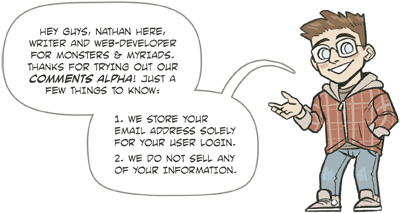
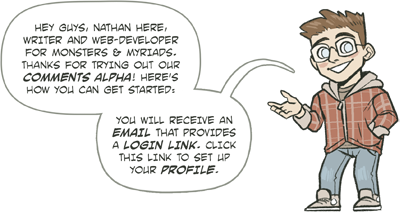
Fixed mobile author notes, added pages and signin

diff --git a/src/components/PageDetailCards/MobilePageDetailsCard.jsx b/src/components/PageDetailCards/MobilePageDetailsCard.jsx
@@ -1,39 +1,42 @@
-import Title from '../generic/Title';
-import BodyText from '../generic/BodyText';
-import JointSignature from '../generic/JointSignature';
+import Title from "../generic/Title";
+import BodyText from "../generic/BodyText";
+import JointSignature from "../generic/JointSignature";
 
 export default function MobilePageDetailsCard(props) {
-    
-    function convertDateForIos(date) {
-        var arr = date.split(/[- :]/);
-        date = new Date(arr[0], arr[1]-1, arr[2], arr[3], arr[4], arr[5]);
-        return date;
-    }
+  function convertDateForIos(date) {
+    var arr = date.split(/[- :]/);
+    date = new Date(arr[0], arr[1] - 1, arr[2], arr[3], arr[4], arr[5]);
+    return date;
+  }
 
-    let d = convertDateForIos(props.date);
+  let d = convertDateForIos(props.date);
 
-    return (
-        <div className="w-full border-t border-b border-mocha-dark py-6 px-6">
-            <div className="title w-full inline-block">
-                <div className="text-left">
-                    <Title text={props.title} />
-                </div>
-            </div>
-            <div className="message text-base w-full inline-block my-5">
-                <div className="text-left">
-                    <BodyText text={props.page.message}/>
-                </div>
-            </div>
-            <div className="signatureAndTime inline-block w-full">
-                <div className="sig float-left">
-                    <JointSignature userId={props.page.user}/>
-                </div>
-                <div className="date float-right leading-8">
-                    <div className="font-body font-regular text-base text-gray-light leading-8"> 
-                        {String(d.getMonth()+1)+"."+String(d.getDate())+"."+String(d.getFullYear())}
-                    </div>
-                </div>
-            </div>
+  return (
+    <div className="w-full border-t border-b border-mocha-dark bg-white">
+      <div className="title w-full inline-block bg-eggshell py-6 px-6">
+        <div className="text-left">
+          <Title text={props.title} />
         </div>
-    )
+      </div>
+      <div className="message text-base w-full inline-block my-5 px-6">
+        <div className="text-left">
+          <BodyText text={props.page.message} />
+        </div>
+      </div>
+      <div className="signatureAndTime inline-block w-full px-6 pb-6">
+        <div className="sig float-left">
+          <JointSignature userId={props.page.user} />
+        </div>
+        <div className="date float-right leading-8">
+          <div className="font-body font-regular text-base text-gray-light leading-8">
+            {String(d.getMonth() + 1) +
+              "." +
+              String(d.getDate()) +
+              "." +
+              String(d.getFullYear())}
+          </div>
+        </div>
+      </div>
+    </div>
+  );
 }

diff --git a/src/components/generic/menus/MobileMenu.js b/src/components/generic/menus/MobileMenu.js
@@ -44,7 +44,7 @@ export default function MobileMenu(props) {
                 Archive
               </Link>
             </div>
-            <div className="creatorsNavLink">
+            {/* <div className="creatorsNavLink">
               <Link to={CREATIVES_PAGE_PATH} onClick={props.onMenuChange}>
                 About Us
               </Link>
@@ -53,7 +53,7 @@ export default function MobileMenu(props) {
               <Link to={SUPPORT_PAGE_PATH} onClick={props.onMenuChange}>
                 Support Us
               </Link>
-            </div>
+            </div> */}
             <div className="signinNavLink">
               <Link to={SIGNIN_PAGE_PATH} onClick={props.onMenuChange}>
                 {auth.currentUser == null ? "Login" : "User"}

diff --git a/src/components/users/components/SignInToUserProfile.jsx b/src/components/users/components/SignInToUserProfile.jsx
@@ -100,7 +100,7 @@ const SignInToUserProfile = () => {
 
           <SignIn />
           <div className="mr-auto ml-auto mt-4">
-            <img src={loginExplain} width={200} className="ml-32 md:ml-56" />
+            <img src={loginExplain} width={300} className="" />
           </div>
         </div>
       )}

diff --git a/README.md b/README.md
@@ -1,27 +1,23 @@
 # TODO
 
-- 1. BASIC COMMENTS
-
-  - add explanation in logon screen
-
-- 2. BUILD EMAIL LIST
+- 1. BUILD EMAIL LIST
 
   - Integrate email service and start mailing list
   - Add email settings to User page
 
-- 3. POLISHED COMMENTS
+- 2. POLISHED COMMENTS
 
-  - add pagination
   - add like button and display to comments
   - Retrieve top three comments by likes, and the rest sorted by date newest first
+  - add pagination
   - On User Profile add the ability to dynamically update the avatar
 
-- 4. POLISH NAVIGATION
+- 3. POLISH NAVIGATION
 
   - Add infinite scroll instead of button navigation
   - Add tap on either side of page to navigate
 
-- 5. MISC
+- 4. MISC
 
   - Move/animate bookmark icon to top right of comic page.
   - Optimize performance
